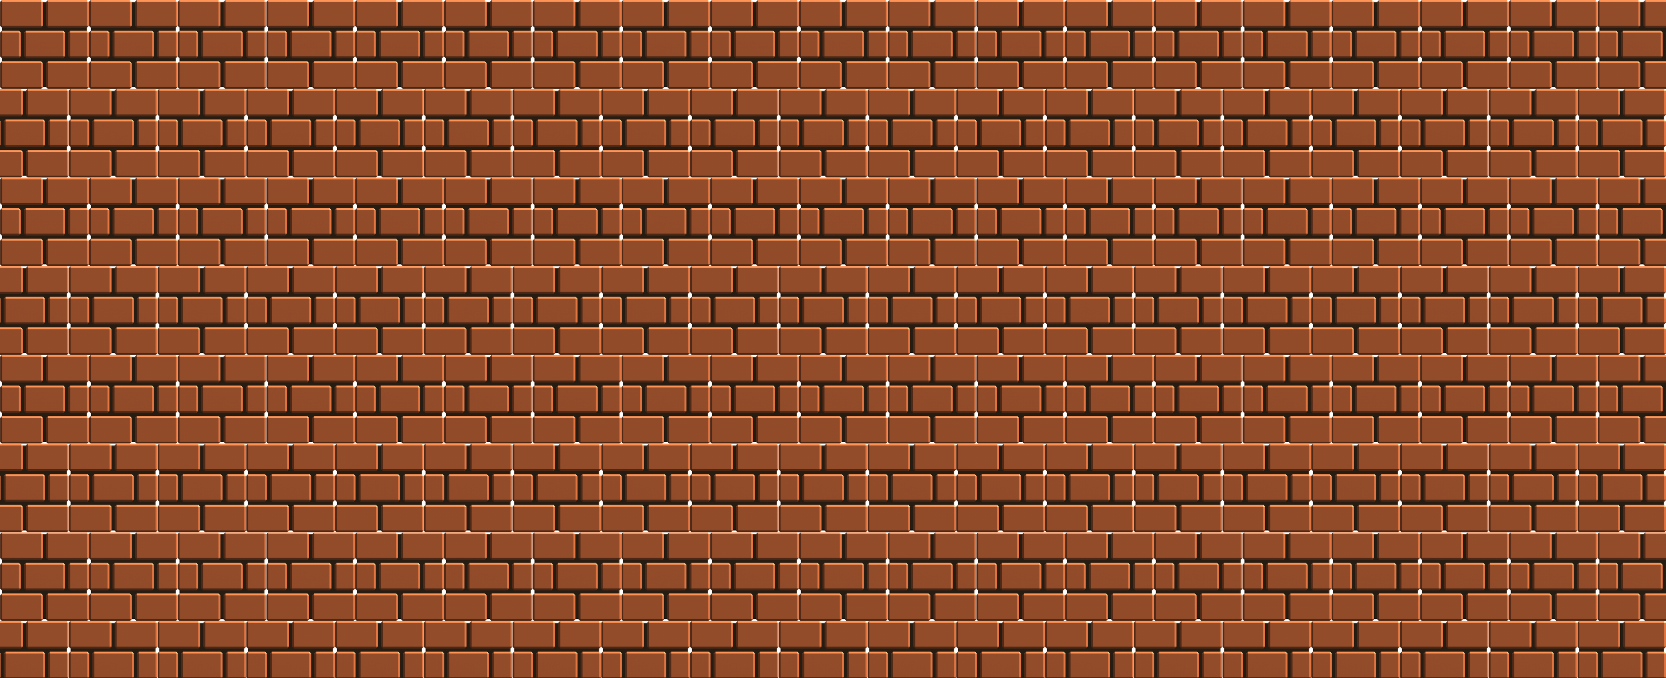
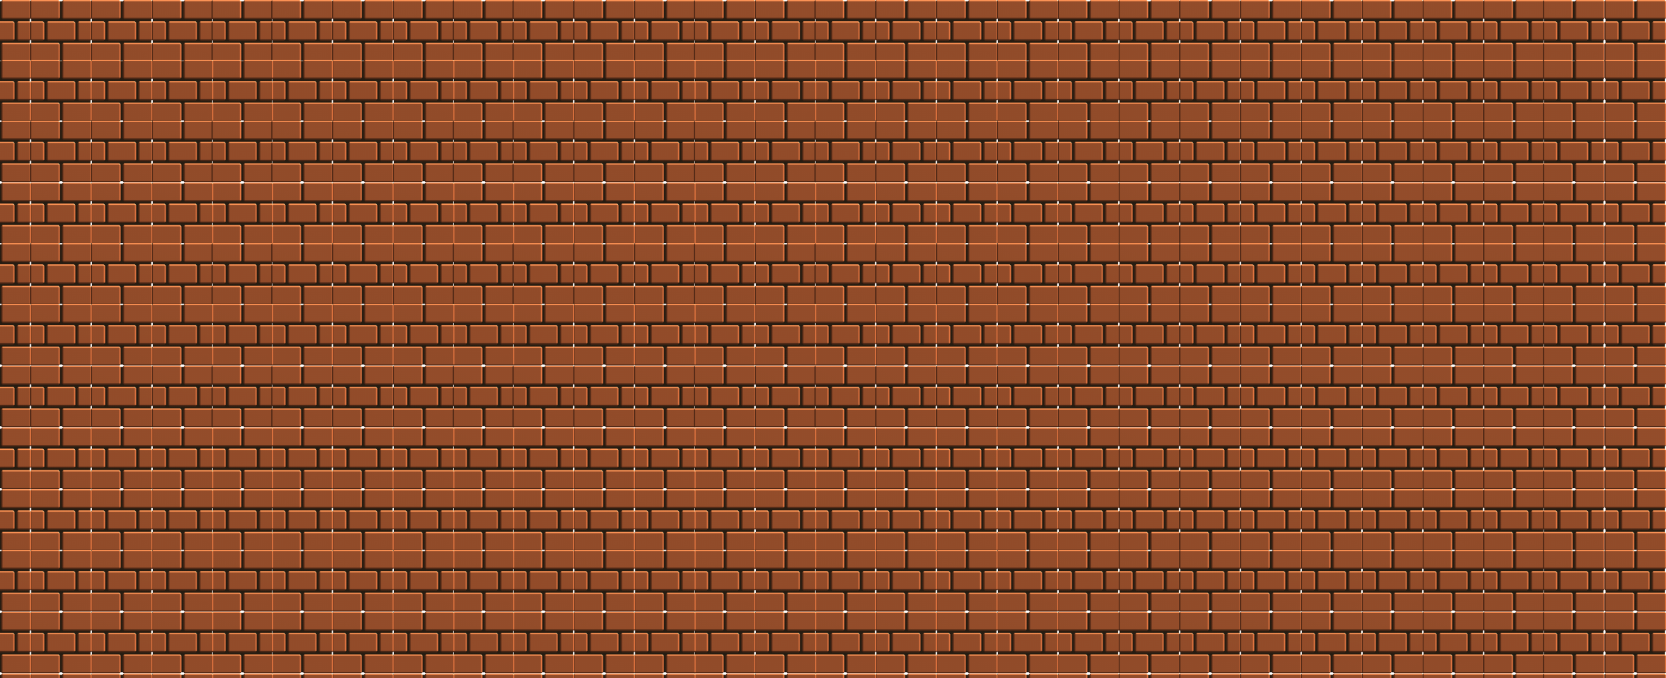
v1.05

diff --git a/style.css b/style.css
@@ -17,16 +17,18 @@ body {
 }
 
 .navbar {
-  height: 60px;
+  height: 80px;
   display: flex;
   align-items: center;
   justify-content: space-between;
   width: 100%;
   gap: 10px;
-  margin-top: 1.5vw;
-  position: sticky;
-  top: 0;
   padding-inline: 2.5vw;
+  z-index: 100;
+  position: fixed;
+  top: 0;
+  left: 0;
+  background: #fff;
 }
 
 .align-center {
@@ -221,10 +223,10 @@ body {
 }
 
 .slider {
-  height: calc(100vh - 120px);
+  height: calc(100vh - 180px);
   position: relative;
   width: 100%;
-  margin: 20px 0 50px 0;
+  margin: 80px 0 50px 0;
   overflow: hidden;
 }
 .video-heading {
@@ -255,6 +257,26 @@ body {
   align-items: center;
   justify-content: center;
   position: relative;
+}
+.slider-item:nth-child(1) {
+  background: url(./Assets/01.png);
+  background-size: cover;
+  background-position: right;
+}
+.slider-item:nth-child(2) {
+  background: url(./Assets/02.png);
+  background-size: cover;
+  background-position: right;
+}
+.slider-item:nth-child(3) {
+  background: url(./Assets/03.png);
+  background-size: cover;
+  background-position: right;
+}
+.slider-item:nth-child(4) {
+  background: url(./Assets/04.jpg);
+  background-size: cover;
+  background-position: center;
 }
 
 .slider-item img {
@@ -295,11 +317,14 @@ body {
 }
 
 .characters {
-  margin-block: 5vh;
+  padding-block: 5vh;
   padding-inline: 2.5vw;
   flex-direction: column;
   display: flex;
   align-items: center;
+  background: url(./Assets/bricks.png);
+  background-position: center;
+  background-size: cover;
 }
 
 .charHeading,
@@ -307,7 +332,7 @@ body {
 .storeHeading {
   font-weight: 600;
   text-align: left;
-  color: #000;
+  color: #fff;
   font-size: 2rem;
   width: 100%;
 }
@@ -649,6 +674,7 @@ a {
 
 .featHeading {
   margin-bottom: 20px;
+  color: #000;
 }
 
 .mario {
@@ -674,11 +700,18 @@ a {
   display: flex;
   align-items: center;
   flex-direction: column;
+  background: url(./Assets/bricks.png);
+  background-position: center;
+  background-size: cover;
+  background-repeat: no-repeat;
+  margin-top: -5px;
 }
 
 .storeHeading {
   padding-inline: 2.5vw;
   margin-block: 20px;
+  color: #fff;
+  text-shadow: 0 0 10px 2px #000;
 }
 
 .store-showcase {
@@ -880,4 +913,10 @@ a {
     top: 53%;
     right: 5%;
   }
+}
+.best-sellers {
+  min-height: 100vh;
+  width: 100%;
+  background-size: cover;
+  background-position: center;
 }

diff --git a/index.html b/index.html
@@ -113,19 +113,15 @@
       >
         <div class="slider-item">
           <h1 class="video-heading">Super Mario™ 3D World + Bowser’s Fury</h1>
-          <img src="./Assets/01.png" alt="01" draggable="false" />
         </div>
         <div class="slider-item">
           <h1 class="video-heading">Luigi's Mansion™ 2 HD</h1>
-          <img src="./Assets/02.png" alt="02" draggable="false" />
         </div>
         <div class="slider-item">
           <h1 class="video-heading">Super Mario™ 3D World + Bowser’s Fury</h1>
-          <img src="./Assets/03.png" alt="03" draggable="false" />
         </div>
         <div class="slider-item">
           <h1 class="video-heading">Luigi's Mansion™ 2 HD</h1>
-          <img src="./Assets/04.jpg" alt="04" draggable="false" />
         </div>
       </div>
       <div class="cursor">
@@ -244,6 +240,7 @@
         <img src="/Assets/web.banner-07.png" alt="wire" class="wire" />
       </div>
     </div>
+    <div class="best-sellers"></div>
 
     <script src="https://unpkg.com/lenis@1.1.5/dist/lenis.min.js"></script>
   </body>

diff --git a/app.js b/app.js
@@ -141,7 +141,7 @@ mario.addEventListener("mouseover", () => {
 coin.addEventListener("mouseover", () => {
   coin.style.zIndex = "11";
   overlay.style.display = "flex";
-  title.innerHTML = "Coin";
+  title.innerHTML = "sales & deals";
 });
 merchandise.addEventListener("mouseover", () => {
   merchandise.style.zIndex = "11";
